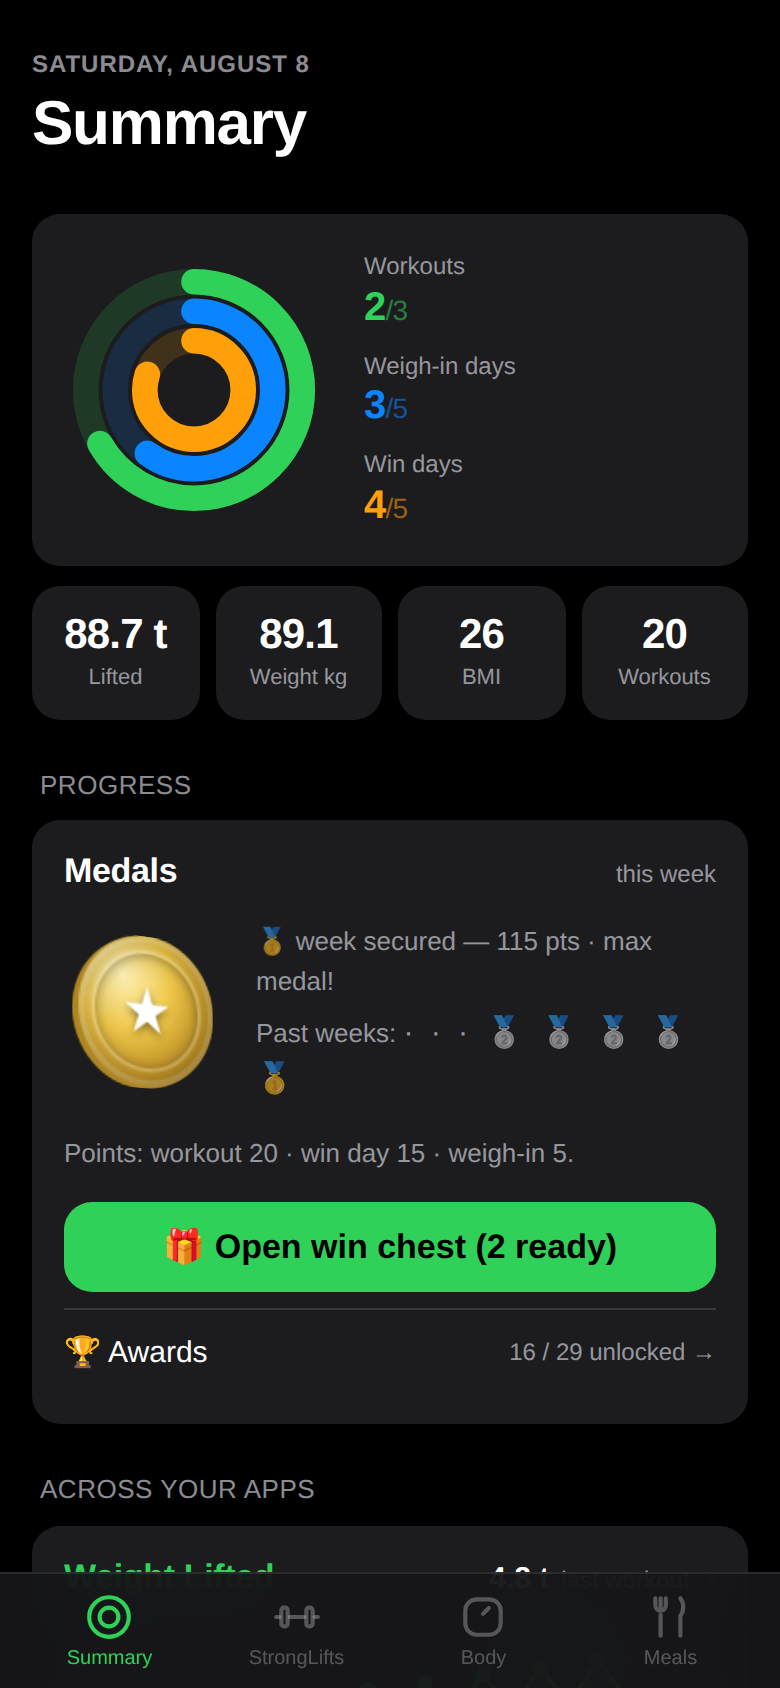
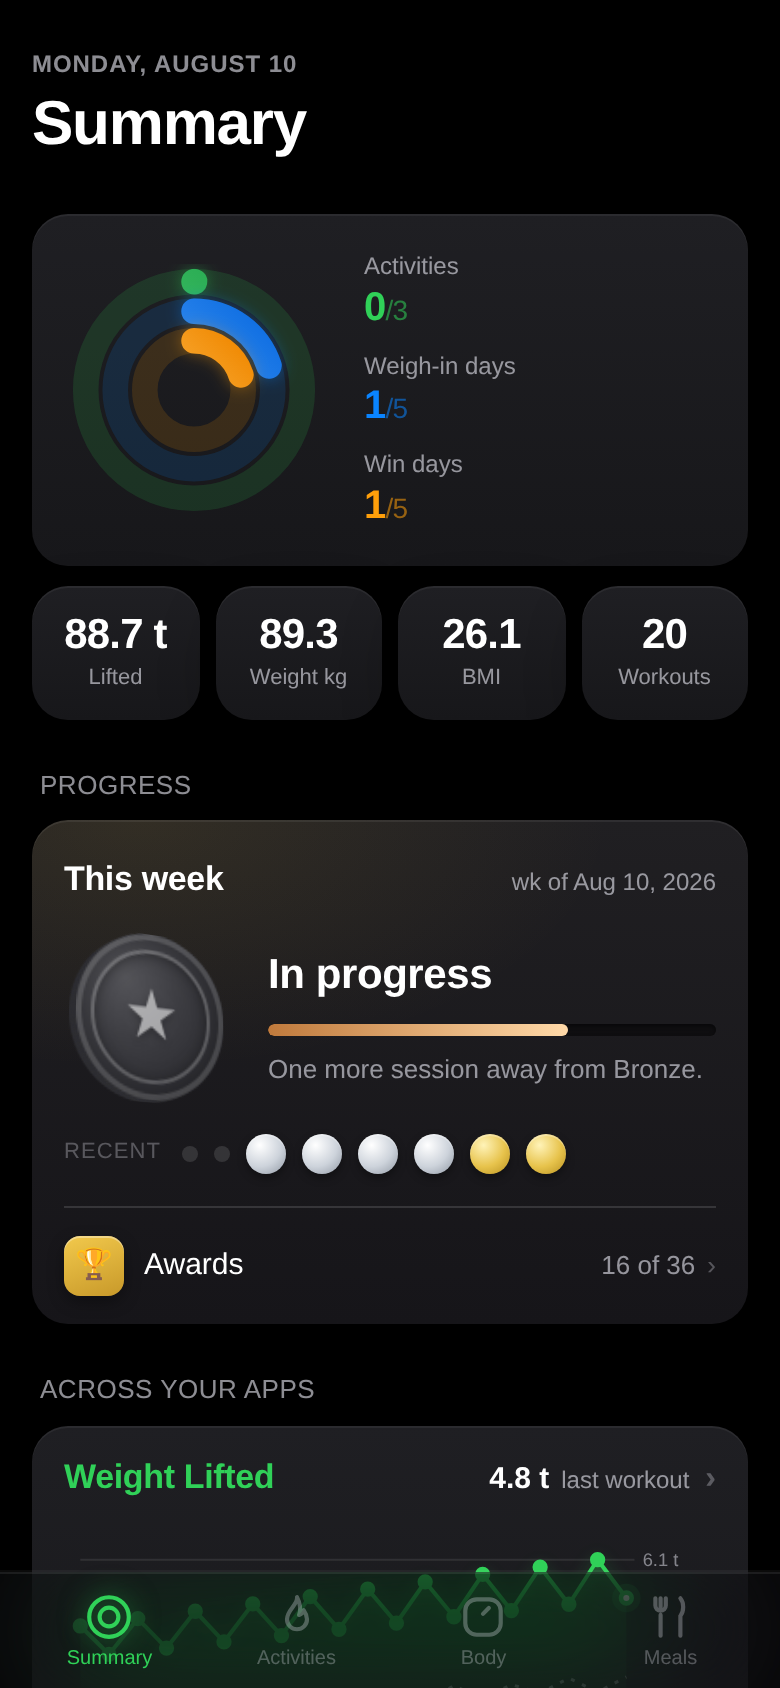
Update README and regenerate screenshots for current design
Refresh the Summary and Activities descriptions (activity rings, This
Week medal card, activities landing) and regenerate all screenshots to
reflect the current UI: frosted tab bar, iOS activity rows, the
redesigned progress card and Stocks-style charts. Also rename the
no-medal progress tier label from This week to In progress so it does
not duplicate the card header.

Claude-Session: https://claude.ai/code/session_01CJH1XXc1hqnWXruAf8CKxu

diff --git a/index.html b/index.html
@@ -2574,7 +2574,7 @@ function progressCardHTML() {
   const fillPct = atMax ? 100 : Math.round((thisWeek - lo) / (hi - lo) * 100);
   const fillTier = atMax ? "gold" : (nextName || "").toLowerCase();
 
-  const tierLabel = medal ? `${TIER_NAME[medal]} week` : "This week";
+  const tierLabel = medal ? `${TIER_NAME[medal]} week` : "In progress";
   const remaining = hi - thisWeek;
   const note = atMax ? "A complete week — every ring earned."
     : remaining <= MEDAL_PTS.workout ? `One more session away from ${nextName}.`

diff --git a/README.md b/README.md
@@ -4,18 +4,18 @@ My personal health app. Everything runs in a single HTML file in the browser. No
 
 **Open it here: https://monsharen.github.io/stronglifts/**
 
-| Summary | StrongLifts | Body |
+| Summary | Activities | StrongLifts |
 |---|---|---|
-| ![Summary](screenshots/summary.png) | ![StrongLifts stats](screenshots/stronglifts-stats.png) | ![Body](screenshots/body.png) |
+| ![Summary](screenshots/summary.png) | ![Activities](screenshots/activities.png) | ![StrongLifts stats](screenshots/stronglifts-stats.png) |
 
-| Meals | Awards |
-|---|---|
-| ![Meals](screenshots/meals.png) | ![Awards with 3D medal](screenshots/awards.png) |
+| Body | Meals | Awards |
+|---|---|---|
+| ![Body](screenshots/body.png) | ![Meals](screenshots/meals.png) | ![Awards with 3D medal](screenshots/awards.png) |
 
 ## What's inside
 
-- **Summary**: weekly activity rings (workouts, weigh-in days, win days), charts for weight lifted, weight logged, calories and waist, insights computed from my own data, a monthly recap, weekly medals as 3D coins and optional reminders.
-- **Activities**: each activity is its own app. StrongLifts is the full 5x5 logger. Alternating A/B workouts, automatic progression (+2.5 kg on success, repeat on failure, 10% deload after three fails, and an easier weight after a layoff since strength fades with time off), warm-up plans, a per-side plate calculator and a rest timer. Stats include the competition total (squat + bench + deadlift), session tonnage with warm-ups as a dotted line and PR charts per lift. Running is an adaptive 10 km programme: sessions rotate Intervals, Tempo and Long run with paces derived from an estimated 10 km time that drops 30 s per completed cycle, deloads after three straight fails, and re-baselines whenever a measured 10 km run beats the estimate. Swimming logs time in the water and distance when available, with pace per 100 m. Every activity counts toward the green ring and weekly medals.
+- **Summary**: weekly activity rings (activities, weigh-in days, win days), charts for weight lifted, weight logged, calories and waist, insights computed from my own data, a monthly recap, a This Week card that earns a bronze, silver or gold medal from the week's effort, and optional reminders.
+- **Activities**: a landing page of activities, each its own app. StrongLifts is the full 5x5 logger. Alternating A/B workouts, automatic progression (+2.5 kg on success, repeat on failure, 10% deload after three fails, and an easier weight after a layoff since strength fades with time off), warm-up plans, a per-side plate calculator and a rest timer. Stats include the competition total (squat + bench + deadlift), session tonnage with warm-ups as a dotted line and PR charts per lift. Running is an adaptive 10 km programme: sessions rotate Intervals, Tempo and Long run with paces derived from an estimated 10 km time that drops 30 s per completed cycle, deloads after three straight fails, and re-baselines whenever a measured 10 km run beats the estimate. Swimming logs time in the water and distance when available, with pace per 100 m. Every activity counts toward the green ring and weekly medals.
 - **Body**: morning weigh-ins with BMI, a goal weight with pace and estimated finish date, a ghost race against my earlier runs, and tape measurements (waist, chest, arm, thigh) behind a Weight/Measure switch.
 - **Meals**: no calorie counting, just meal slots. Tick breakfast, lunch, fika, dinner, drinks and snacks against a daily budget. A day under budget earns a star. Missed days are fine and count against nothing.
 - **Awards**: 36 achievements as rotatable 3D medals in different materials, with the date earned engraved on the back. Everything unlocks from logged data, nothing to claim.
